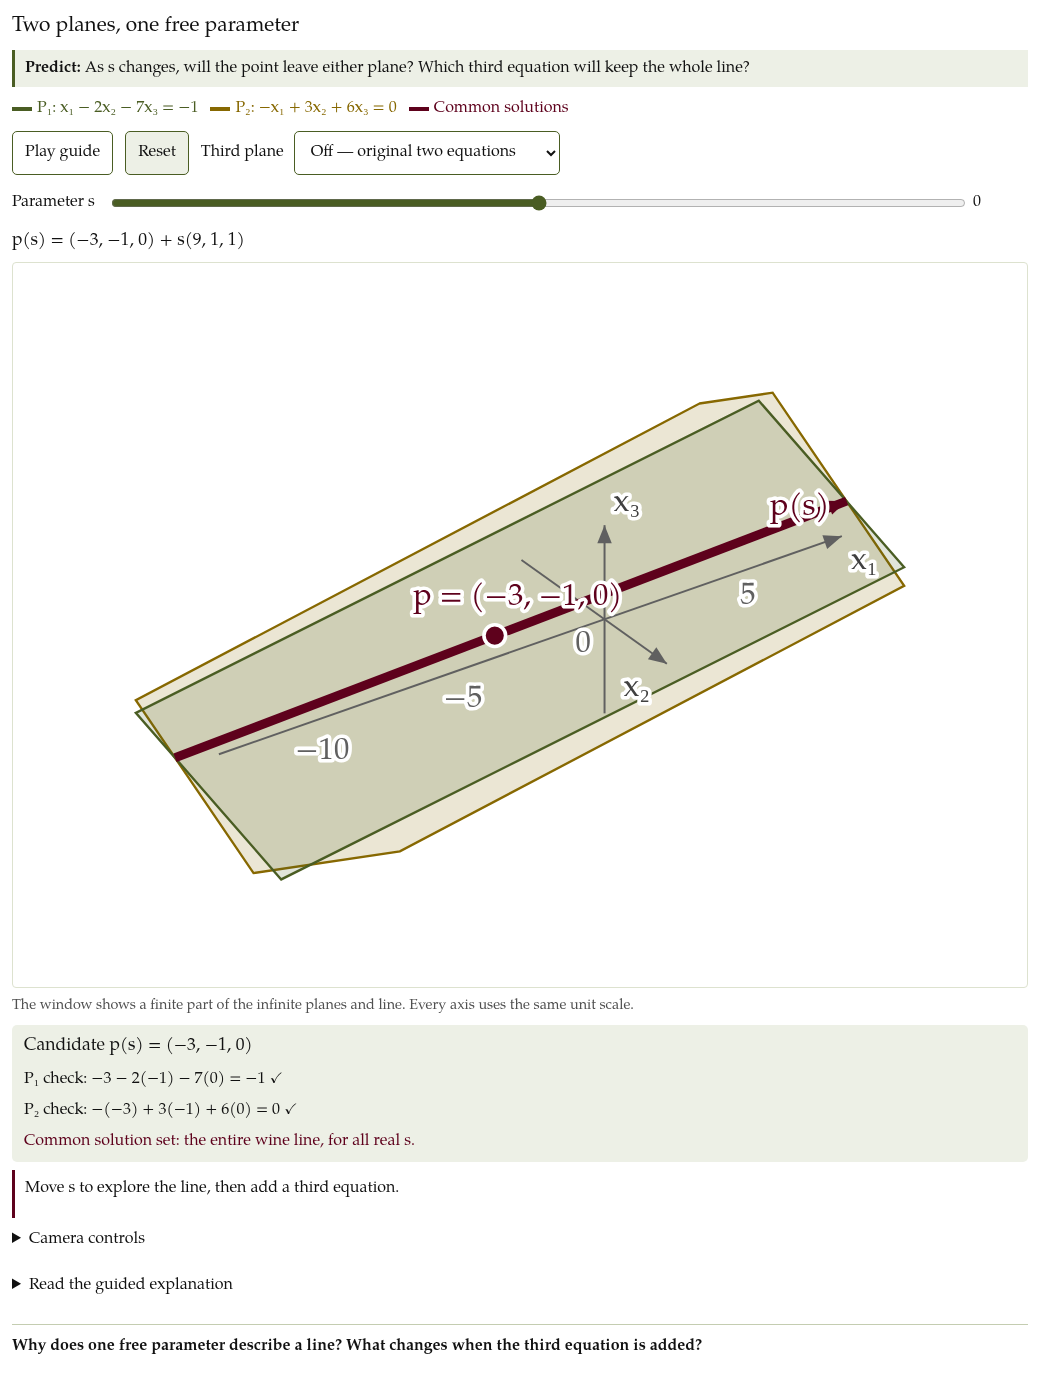
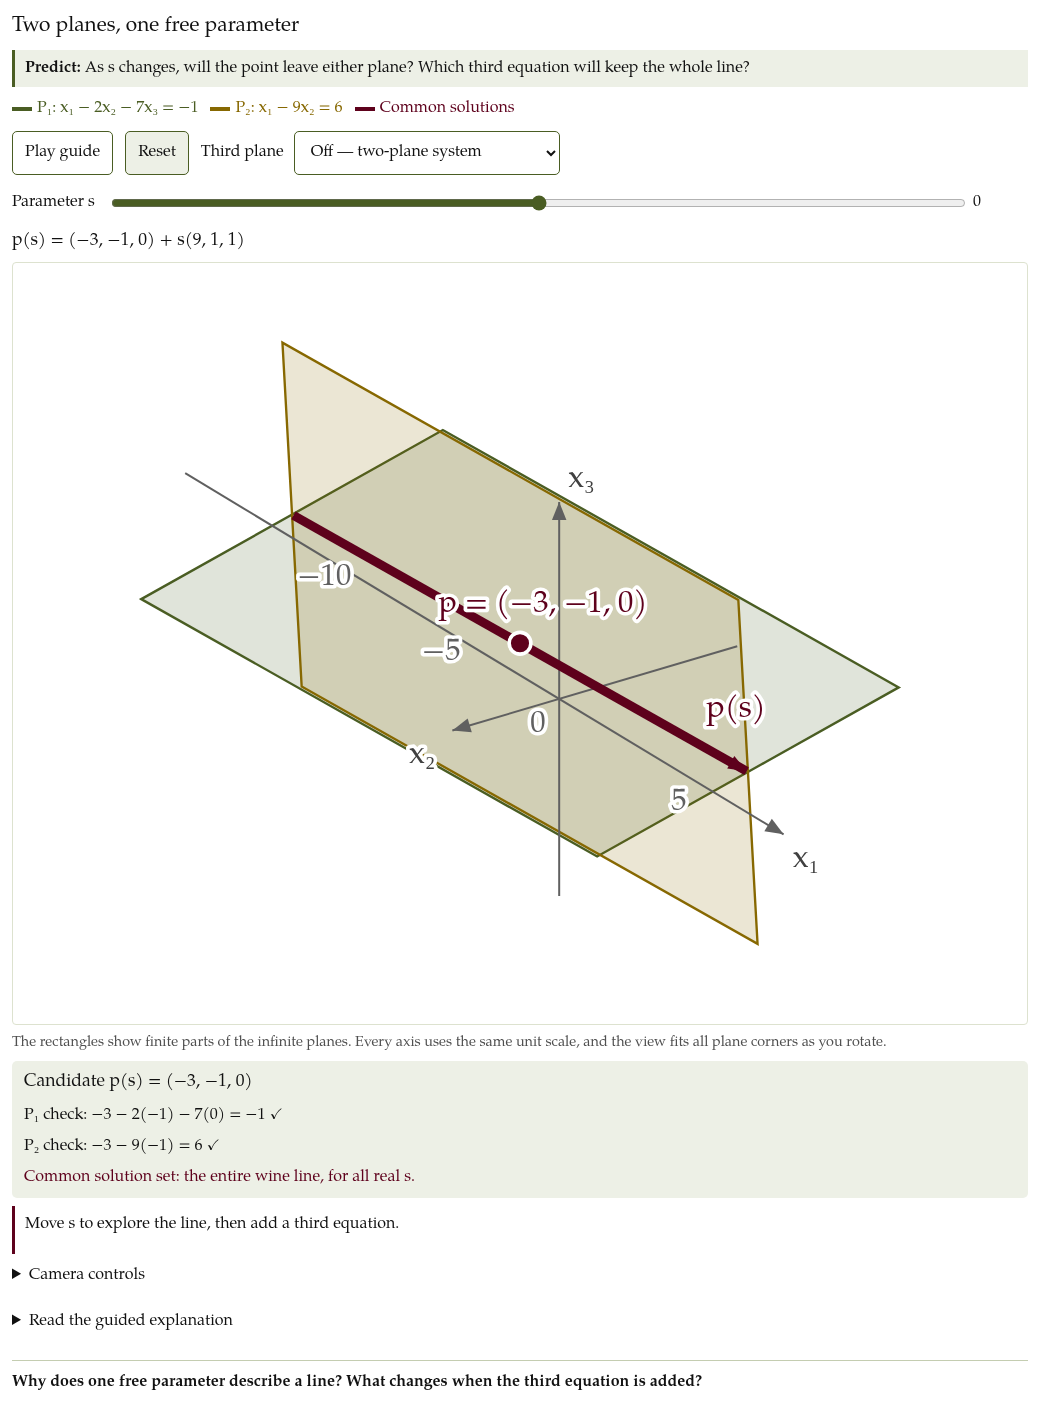
Separate solution planes and fit the rotating view

Changed region(s): [[0.1231, 0.2496, 0.8923, 0.6865], [0.0, 0.0, 0.7385, 0.1872], [0.0, 0.7177, 0.9846, 0.9361]]

diff --git a/assets/demos-manim/solution-set.html b/assets/demos-manim/solution-set.html
@@ -15,7 +15,7 @@
   <p class="prediction"><strong>Predict:</strong> As s changes, will the point leave either plane? Which third equation will keep the whole line?</p>
   <div class="legend" aria-label="Plane and solution colors">
     <span class="olive"><span class="swatch"></span>P₁: x₁ − 2x₂ − 7x₃ = −1</span>
-    <span class="mustard"><span class="swatch"></span>P₂: −x₁ + 3x₂ + 6x₃ = 0</span>
+    <span class="mustard"><span class="swatch"></span>P₂: x₁ − 9x₂ = 6</span>
     <span class="wine"><span class="swatch"></span>Common solutions</span>
   </div>
   <div class="live-explorer" hidden>
@@ -24,7 +24,7 @@
       <button id="reset" type="button">Reset</button>
       <label for="third-plane">Third plane
         <select id="third-plane">
-          <option value="none">Off — original two equations</option>
+          <option value="none">Off — two-plane system</option>
           <option value="unique">x₃ = 0 — exactly one solution</option>
           <option value="infinite">x₂ − x₃ = −1 — infinitely many</option>
           <option value="empty">x₂ − x₃ = 0 — no solution</option>
@@ -36,11 +36,11 @@
       <output aria-live="off" id="parameter-value" for="parameter">0</output>
     </label>
     <p id="line-formula" class="equation">p(s) = (−3, −1, 0) + s(9, 1, 1)</p>
-    <svg id="solution-scene" class="scene rotatable" viewBox="0 0 560 400" role="img" tabindex="0" aria-labelledby="scene-title scene-description" aria-describedby="camera-hint">
+    <svg id="solution-scene" class="scene rotatable" viewBox="0 0 560 420" role="img" tabindex="0" aria-labelledby="scene-title scene-description" aria-describedby="camera-hint">
       <title id="scene-title">Planes and their common solution set in ℝ³</title>
       <desc id="scene-description">Two translucent planes intersect in a line. The wine highlight marks solutions of every active equation. Use the parameter slider for the candidate point and the camera controls to rotate.</desc>
     </svg>
-    <p id="window-note" class="hint">The window shows a finite part of the infinite planes and line. Every axis uses the same unit scale.</p>
+    <p id="window-note" class="hint">The rectangles show finite parts of the infinite planes. Every axis uses the same unit scale, and the view fits all plane corners as you rotate.</p>
     <div class="readout">
       <p class="equation">Candidate p(s) = <output aria-live="off" id="point-coordinates" for="parameter">(−3, −1, 0)</output></p>
       <p id="check-first"></p>
@@ -52,18 +52,18 @@
     <details>
       <summary>Camera controls</summary>
       <p id="camera-hint" class="hint">Drag the plot, focus it and use the arrow keys, or use these sliders. Reset restores the starting view.</p>
-      <label class="slider" for="yaw">Rotation<input id="yaw" type="range" min="-180" max="180" step="1" value="-35"><output aria-live="off" id="yaw-value" for="yaw">−35°</output></label>
-      <label class="slider" for="pitch">Elevation<input id="pitch" type="range" min="10" max="75" step="1" value="30"><output aria-live="off" id="pitch-value" for="pitch">30°</output></label>
+      <label class="slider" for="yaw">Rotation<input id="yaw" type="range" min="-180" max="180" step="1" value="55"><output aria-live="off" id="yaw-value" for="yaw">55°</output></label>
+      <label class="slider" for="pitch">Elevation<input id="pitch" type="range" min="10" max="75" step="1" value="25"><output aria-live="off" id="pitch-value" for="pitch">25°</output></label>
     </details>
   </div>
   <figure class="fallback">
     <img src="../images/solution-set-static.svg" alt="Two planes intersect in the line through (−3, −1, 0) in direction (9, 1, 1).">
-    <figcaption>Every p(s) satisfies both original equations. JavaScript enables the moving point, third-plane presets, and camera controls.</figcaption>
+    <figcaption>Every p(s) satisfies x₁ − 2x₂ − 7x₃ = −1 and x₁ − 9x₂ = 6. This pair has the same solution line as the book's original system. JavaScript enables the controls.</figcaption>
   </figure>
   <details>
     <summary>Read the guided explanation</summary>
     <ol>
-      <li>For every real s, p(s) = (−3 + 9s, −1 + s, s) lies on both planes. The displayed slider covers −1 ≤ s ≤ 1.</li>
+      <li>For every real s, p(s) = (−3 + 9s, −1 + s, s) lies on both displayed planes. The second equation x₁ − 9x₂ = 6 replaces the original second equation to separate the planes visually; the solution line is unchanged. The slider covers −1 ≤ s ≤ 1.</li>
       <li>Adding x₃ = 0 forces s = 0. Only (−3, −1, 0) is a common solution; the rest of the original line becomes a dashed reference.</li>
       <li>Adding x₂ − x₃ = −1 keeps every p(s), because (−1 + s) − s = −1. The common solution set is the entire line.</li>
       <li>Adding x₂ − x₃ = 0 keeps no p(s): the left side is always −1. There is no wine solution highlight because the common solution set is empty.</li>

diff --git a/assets/demos-manim/solution-set.js b/assets/demos-manim/solution-set.js
@@ -1,20 +1,29 @@
 (function () {
   "use strict";
   const G=window.BookGeometry,C=G.colors,$=id=>document.getElementById(id);
-  const camera={yaw:-35,pitch:30},bounds=[[-13,8],[-4,3],[-3,3]];
+  const camera={yaw:55,pitch:25},bounds=[[-15,9],[-5,3],[-5,5]];
+  const size=[560,420],center=G.solutionPoint(0),direction=[9,1,1];
+  const planes=[
+    {n:[1,-2,-7],c:-1,color:C.olive},
+    {n:[1,-9,0],c:6,color:C.mustard},
+    {n:[0,0,1],c:0,color:C.gray,mode:"unique"},
+    {n:[0,1,-1],c:-1,color:C.gray,mode:"infinite"},
+    {n:[0,1,-1],c:0,color:C.gray,mode:"empty"}
+  ].map(p=>({...p,points:G.planePatch(p.n,p.c,center,direction,11,4.2)}));
+  const fitPoints=planes.flatMap(p=>p.points);
+  bounds.forEach((b,k)=>b.forEach(value=>{const p=[0,0,0];p[k]=value;fitPoints.push(p);}));
   let s=0,mode="none",guideStep=-1;
-  const scene=new G.Scene($("solution-scene"),G.projector(camera,[-2.5,-.5,0],20,[280,207]));
+  const scene=new G.Scene($("solution-scene"),G.fittedProjector(camera,fitPoints,size));
   const captions=[
     "1. Two equations: moving s traces their common line. Both equation checks stay true.",
     "2. Add x₃ = 0: only s = 0 survives. The wine point is the only common solution.",
     "3. Add x₂ − x₃ = −1: every s survives, so the entire line remains wine.",
-    "4. Add x₂ − x₃ = 0: no s survives. The dashed line solves only the original two equations."
+    "4. Add x₂ − x₃ = 0: no s survives. The dashed line solves only the first two equations."
   ];
   function draw() {
     scene.clear();
-    const planes=[{n:[1,-2,-7],c:-1,color:C.olive},{n:[-1,3,6],c:0,color:C.mustard}];
-    if(mode!=="none") planes.push({n:mode==="unique"?[0,0,1]:[0,1,-1],c:G.thirdTarget(mode),color:C.gray});
-    const polygons=planes.map(p=>({...p,points:G.planeBox(p.n,p.c,bounds)}));
+    scene.project=G.fittedProjector(camera,fitPoints,size);
+    const polygons=planes.filter(p=>!p.mode||p.mode===mode);
     polygons.sort((a,b)=>{
       const depth=p=>p.points.reduce((sum,v)=>sum+scene.project(v)[2],0)/p.points.length;
       return depth(a)-depth(b);
@@ -22,7 +31,7 @@
     scene.axes(bounds,["x₁","x₂","x₃"]);
     [-10,-5,5].forEach(x=>scene.text([x,0,0],G.fmt(x),C.gray,[-7,20],{"font-size":14}));
     const whole=mode==="none"||mode==="infinite";
-    const a=G.solutionPoint(-10/9),b=G.solutionPoint(11/9);
+    const a=G.solutionPoint(-1.2),b=G.solutionPoint(1.2);
     scene.line(a,b,whole?C.wine:C.gray,whole?5:2.5,whole?{}:{"stroke-dasharray":"7 6"});
     if(whole) {
       scene.arrow(G.solutionPoint(.82),b,C.wine,4);
@@ -40,7 +49,7 @@
     $("point-coordinates").value=G.tuple(point);
     const values=G.systemValues(point);
     $("check-first").textContent=`P₁ check: ${G.fmt(point[0])} − 2(${G.fmt(point[1])}) − 7(${G.fmt(point[2])}) = ${G.fmt(values[0])} ✓`;
-    $("check-second").textContent=`P₂ check: −(${G.fmt(point[0])}) + 3(${G.fmt(point[1])}) + 6(${G.fmt(point[2])}) = ${G.fmt(values[1])} ✓`;
+    $("check-second").textContent=`P₂ check: ${G.fmt(point[0])} − 9(${G.fmt(point[1])}) = ${G.fmt(values[1])} ✓`;
     $("third-plane").value=mode;$("check-third").hidden=mode==="none";
     if(mode!=="none") {
       const value=G.thirdValue(mode,point),target=G.thirdTarget(mode);
@@ -51,6 +60,14 @@
     $("common-set").textContent=whole?"Common solution set: the entire wine line, for all real s."
       :mode==="unique"?"Common solution set: {(−3, −1, 0)}. The moving candidate is a solution of all three equations only at s = 0."
       :"Common solution set: ∅ (no solution). The gray dashed line is only a reference for the first two equations.";
+    // Keep labels inside the same frame even at extreme rotations or s values.
+    scene.layer.querySelectorAll("text").forEach(label=>{
+      const box=label.getBBox();
+      const dx=Math.max(12-box.x,Math.min(0,size[0]-12-box.x-box.width));
+      const dy=Math.max(12-box.y,Math.min(0,size[1]-12-box.y-box.height));
+      if(dx)label.setAttribute("x",+label.getAttribute("x")+dx);
+      if(dy)label.setAttribute("y",+label.getAttribute("y")+dy);
+    });
   }
   const player=G.player($("play"),14000,p=>{
     const step=Math.min(3,Math.floor(p*4)),u=Math.min(1,p*4-step);
@@ -68,8 +85,9 @@
   });
   const updateCamera=G.cameraControls($("solution-scene"),camera,draw);
   $("reset").addEventListener("click",()=>{
-    player.reset();mode="none";s=0;guideStep=-1;camera.yaw=-35;camera.pitch=30;updateCamera();
+    player.reset();mode="none";s=0;guideStep=-1;camera.yaw=55;camera.pitch=25;updateCamera();
     $("guide-caption").textContent="Move s to explore the line, then add a third equation.";
   });
-  draw();document.querySelector(".live-explorer").hidden=false;document.documentElement.classList.add("js-ready");
+  document.querySelector(".live-explorer").hidden=false;draw();
+  document.fonts.ready.then(draw);document.documentElement.classList.add("js-ready");
 }());

diff --git a/assets/demos-manim/geometry-core.js b/assets/demos-manim/geometry-core.js
@@ -9,7 +9,7 @@
   const fmt = x => (Math.abs(x) < .0005 ? "0" : Number(x.toFixed(3)).toString()).replace(/-/g, "−");
   const tuple = p => "(" + p.map(fmt).join(", ") + ")";
   const solutionPoint = s => [-3 + 9*s, -1 + s, s];
-  const systemValues = p => [dot([1,-2,-7], p), dot([-1,3,6], p)];
+  const systemValues = p => [dot([1,-2,-7], p), dot([1,-9,0], p)];
   const thirdValue = (mode, p) => mode === "unique" ? p[2] : p[1] - p[2];
   const thirdTarget = mode => mode === "infinite" ? -1 : 0;
   const transform = p => [p[0] + 2*p[1], 2*p[0] + p[1]];
@@ -39,6 +39,17 @@
     const v=cross(n,u);
     return points.sort((p,q)=>Math.atan2(dot(p.map((x,k)=>x-center[k]),v),dot(p.map((x,k)=>x-center[k]),u))-
       Math.atan2(dot(q.map((x,k)=>x-center[k]),v),dot(q.map((x,k)=>x-center[k]),u)));
+  }
+
+  // A rectangular patch on the actual plane, centered near the solution line.
+  function planePatch(normal, constant, center, direction, halfLength, halfWidth) {
+    const n2=dot(normal,normal);
+    const c=add(center,scale(normal,(constant-dot(normal,center))/n2));
+    let u=add(direction,scale(normal,-dot(normal,direction)/n2));
+    if(Math.hypot(...u)<1e-9) u=cross(normal,Math.abs(normal[0])<.9?[1,0,0]:[0,1,0]);
+    u=scale(u,1/Math.hypot(...u));
+    let v=cross(normal,u);v=scale(v,1/Math.hypot(...v));
+    return [[-1,-1],[1,-1],[1,1],[-1,1]].map(([a,b])=>add(c,add(scale(u,a*halfLength),scale(v,b*halfWidth))));
   }
 
   function node(tag, attrs={}, text="") {
@@ -88,6 +99,16 @@
       return [origin[0]+x*unit,origin[1]-(-y*Math.sin(b)+q[2]*Math.cos(b))*unit,y*Math.cos(b)+q[2]*Math.sin(b)];
     };
   }
+  // Fit all potential plane patches and axis ends, so adding a preset does not
+  // change the scale and camera rotation cannot crop a corner of a plane.
+  function fittedProjector(camera, points, size, padding=[44,44]) {
+    const projected=points.map(projector(camera,[0,0,0],1,[0,0]));
+    const min=[0,1].map(k=>Math.min(...projected.map(p=>p[k])));
+    const max=[0,1].map(k=>Math.max(...projected.map(p=>p[k])));
+    const unit=Math.min(...[0,1].map(k=>(size[k]-2*padding[k])/Math.max(1e-9,max[k]-min[k])));
+    const origin=[0,1].map(k=>size[k]/2-unit*(min[k]+max[k])/2);
+    return projector(camera,[0,0,0],unit,origin);
+  }
   function cameraControls(svg, camera, render, prefix="") {
     const yaw=document.getElementById(prefix+"yaw"),pitch=document.getElementById(prefix+"pitch");
     function update() {
@@ -135,7 +156,7 @@
     document.addEventListener("visibilitychange",()=>{if(document.hidden)stop();});
     stop();return {stop,set,reset(){stop();set(0);}};
   }
-  const api={colors,add,scale,dot,cross,fmt,tuple,solutionPoint,systemValues,thirdValue,thirdTarget,transform,basisAt,basisCoordinates,planeBox,node,Scene,projector,cameraControls,player};
+  const api={colors,add,scale,dot,cross,fmt,tuple,solutionPoint,systemValues,thirdValue,thirdTarget,transform,basisAt,basisCoordinates,planeBox,planePatch,node,Scene,projector,fittedProjector,cameraControls,player};
   if(typeof module!=="undefined" && module.exports) module.exports=api;
   else root.BookGeometry=api;
 }(typeof window!=="undefined" ? window : globalThis));

diff --git a/scripts/check-geometry-explorers.py b/scripts/check-geometry-explorers.py
@@ -79,6 +79,7 @@ def snapshot(page, name):
 def main():
     parser=argparse.ArgumentParser(description=__doc__)
     parser.add_argument('--write-previews',action='store_true')
+    parser.add_argument('--preview',choices=list(DEMOS),help='Limit preview export to this demo; all checks still run')
     args=parser.parse_args()
     subprocess.run(['node',str(ROOT/'scripts/check-geometry-math.cjs')],check=True)
     server=ThreadingHTTPServer(('127.0.0.1',0),partial(QuietHandler,directory=str(ROOT)))
@@ -92,12 +93,12 @@ def main():
             for name in DEMOS:
                 page.goto(f'{base}/assets/demos-manim/{name}.html',wait_until='networkidle')
                 page.wait_for_selector('html.js-ready')
-                if args.write_previews:snapshot(page,name)
+                if args.write_previews and (args.preview is None or args.preview==name):snapshot(page,name)
             page.goto(f'{base}/assets/demos-manim/solution-set.html')
             slider(page,'#parameter',1)
             assert page.locator('#point-coordinates').text_content()=='(6, 0, 1)'
             assert '= −1 ✓' in page.locator('#check-first').inner_text()
-            assert '= 0 ✓' in page.locator('#check-second').inner_text()
+            assert '= 6 ✓' in page.locator('#check-second').inner_text()
             page.select_option('#third-plane','unique')
             assert 'does not satisfy' in page.locator('#check-third').inner_text()
             assert page.locator('[data-common-solution="point"]').count()==1
@@ -107,8 +108,27 @@ def main():
                 page.select_option('#third-plane',value)
                 assert ('satisfies' if value=='infinite' else 'does not satisfy') in page.locator('#check-third').inner_text()
             assert '∅' in page.locator('#common-set').inner_text()
+            # Inspect actual rendered geometry and labels at extreme camera
+            # angles and both slider endpoints, for every third-plane preset.
+            page.evaluate('''() => {
+                const set=(id,value)=>{const e=document.getElementById(id);e.value=value;e.dispatchEvent(new Event(id==='third-plane'?'change':'input',{bubbles:true}));};
+                const svg=document.getElementById('solution-scene'),v=svg.viewBox.baseVal;
+                for(const yaw of [-180,-90,0,55,90,180])for(const pitch of [10,25,75]) {
+                    set('yaw',yaw);set('pitch',pitch);
+                    for(const mode of ['none','unique','infinite','empty'])for(const s of [-1,1]) {
+                        set('third-plane',mode);set('parameter',s);
+                        for(const e of svg.querySelectorAll('[data-drawing] > *')) {
+                            const b=e.getBBox();
+                            if(b.x<4||b.y<4||b.x+b.width>v.width-4||b.y+b.height>v.height-4)
+                                throw new Error(`Clipped ${e.tagName}: yaw=${yaw}, pitch=${pitch}, mode=${mode}, s=${s}`);
+                        }
+                    }
+                }
+            }''')
+            page.locator('#reset').click()
+            print('PASS: all plane corners and labels stay inside the frame through 144 camera/preset/endpoint cases',flush=True)
             page.locator('#solution-scene').focus();page.keyboard.press('ArrowRight')
-            assert page.locator('#yaw').input_value()=='-30'
+            assert page.locator('#yaw').input_value()=='60'
             page.locator('#reset').click();page.locator('#parameter').focus();page.keyboard.press('ArrowRight')
             assert page.locator('#parameter').input_value()=='0.01'
             page.locator('#play').click();page.wait_for_timeout(150);page.locator('#play').click()

diff --git a/scripts/GEOMETRY-EXPLORERS.md b/scripts/GEOMETRY-EXPLORERS.md
@@ -38,8 +38,15 @@ python scripts/check-geometry-explorers.py
 The math checks independently substitute points into the equations and compare
 coefficient/augmented ranks for the three third-plane cases. They verify the
 basis images, lost z-direction, and the fixed-vector sum through 101 intermediate
-bases. Plane faces are exact intersections with the plotting box; all axes keep
-equal unit scales. Browser checks cover the equation readouts, preset changes,
+bases. The plane explorer uses the equivalent pair
+`x1 - 2x2 - 7x3 = -1`, `x1 - 9x2 = 6` to separate the planes visually while
+preserving the original solution line. The new second equation is -6 times the
+original first equation minus 7 times the original second equation. Its plane
+meets the first at about 73 degrees. Rectangular patches lie exactly on their
+planes, and the camera fits all patch corners with margins at every rotation.
+The fit includes every preset so switching equations keeps the same scale.
+Axes within each view keep equal unit scales. Browser checks cover clipping
+through 144 camera/preset/slider cases, equation readouts, preset changes,
 head-to-tail arrows, fixed endpoint, keyboard controls, complete playback and
 reset, 375-pixel layouts, reduced motion, no-JavaScript fallbacks, and the three
 rebuilt book embeds. Book embeds are tested with unrelated external services
@@ -52,6 +59,9 @@ python scripts/check-geometry-explorers.py --write-previews
 pretext build web --no-generate
 python scripts/check-geometry-explorers.py
 ```
+
+To refresh only the plane explorer's assets, add `--preview solution-set` to the
+export command. All mathematical and browser checks still run.
 
 The export option additionally uses `scripts/requirements-figures.txt`. It
 writes the three `assets/images/*-static.svg` files with embedded Pagella subsets
